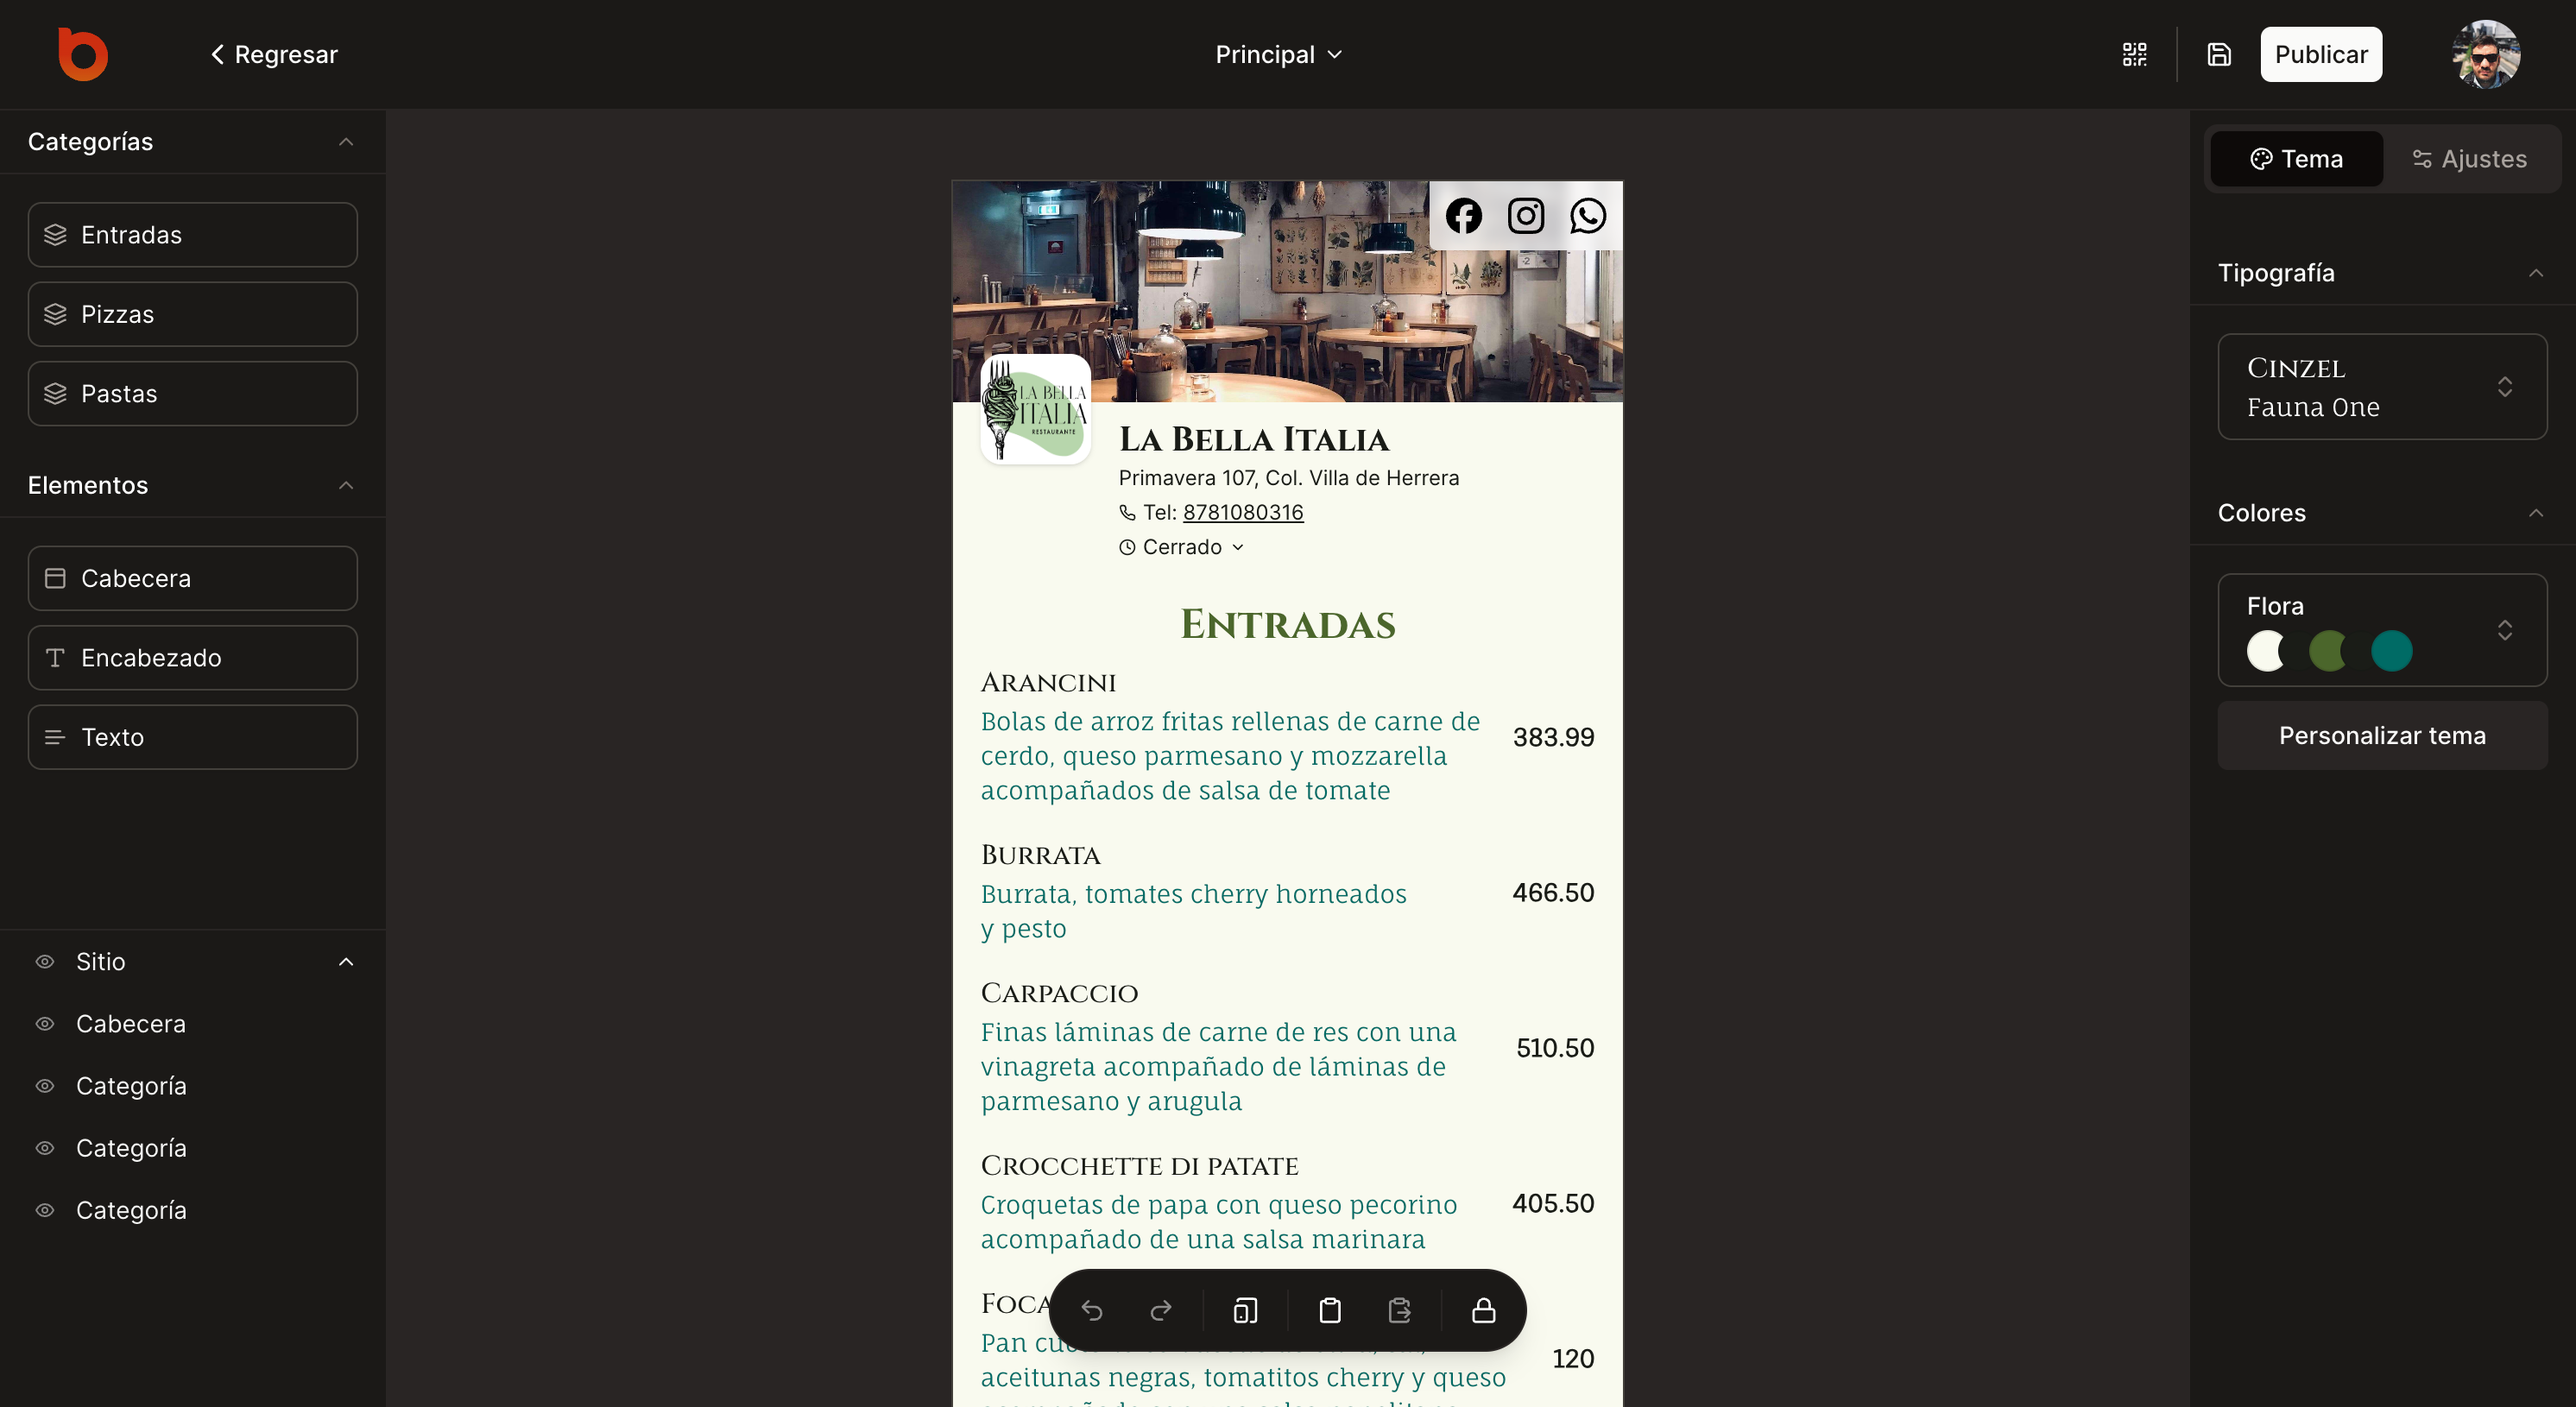
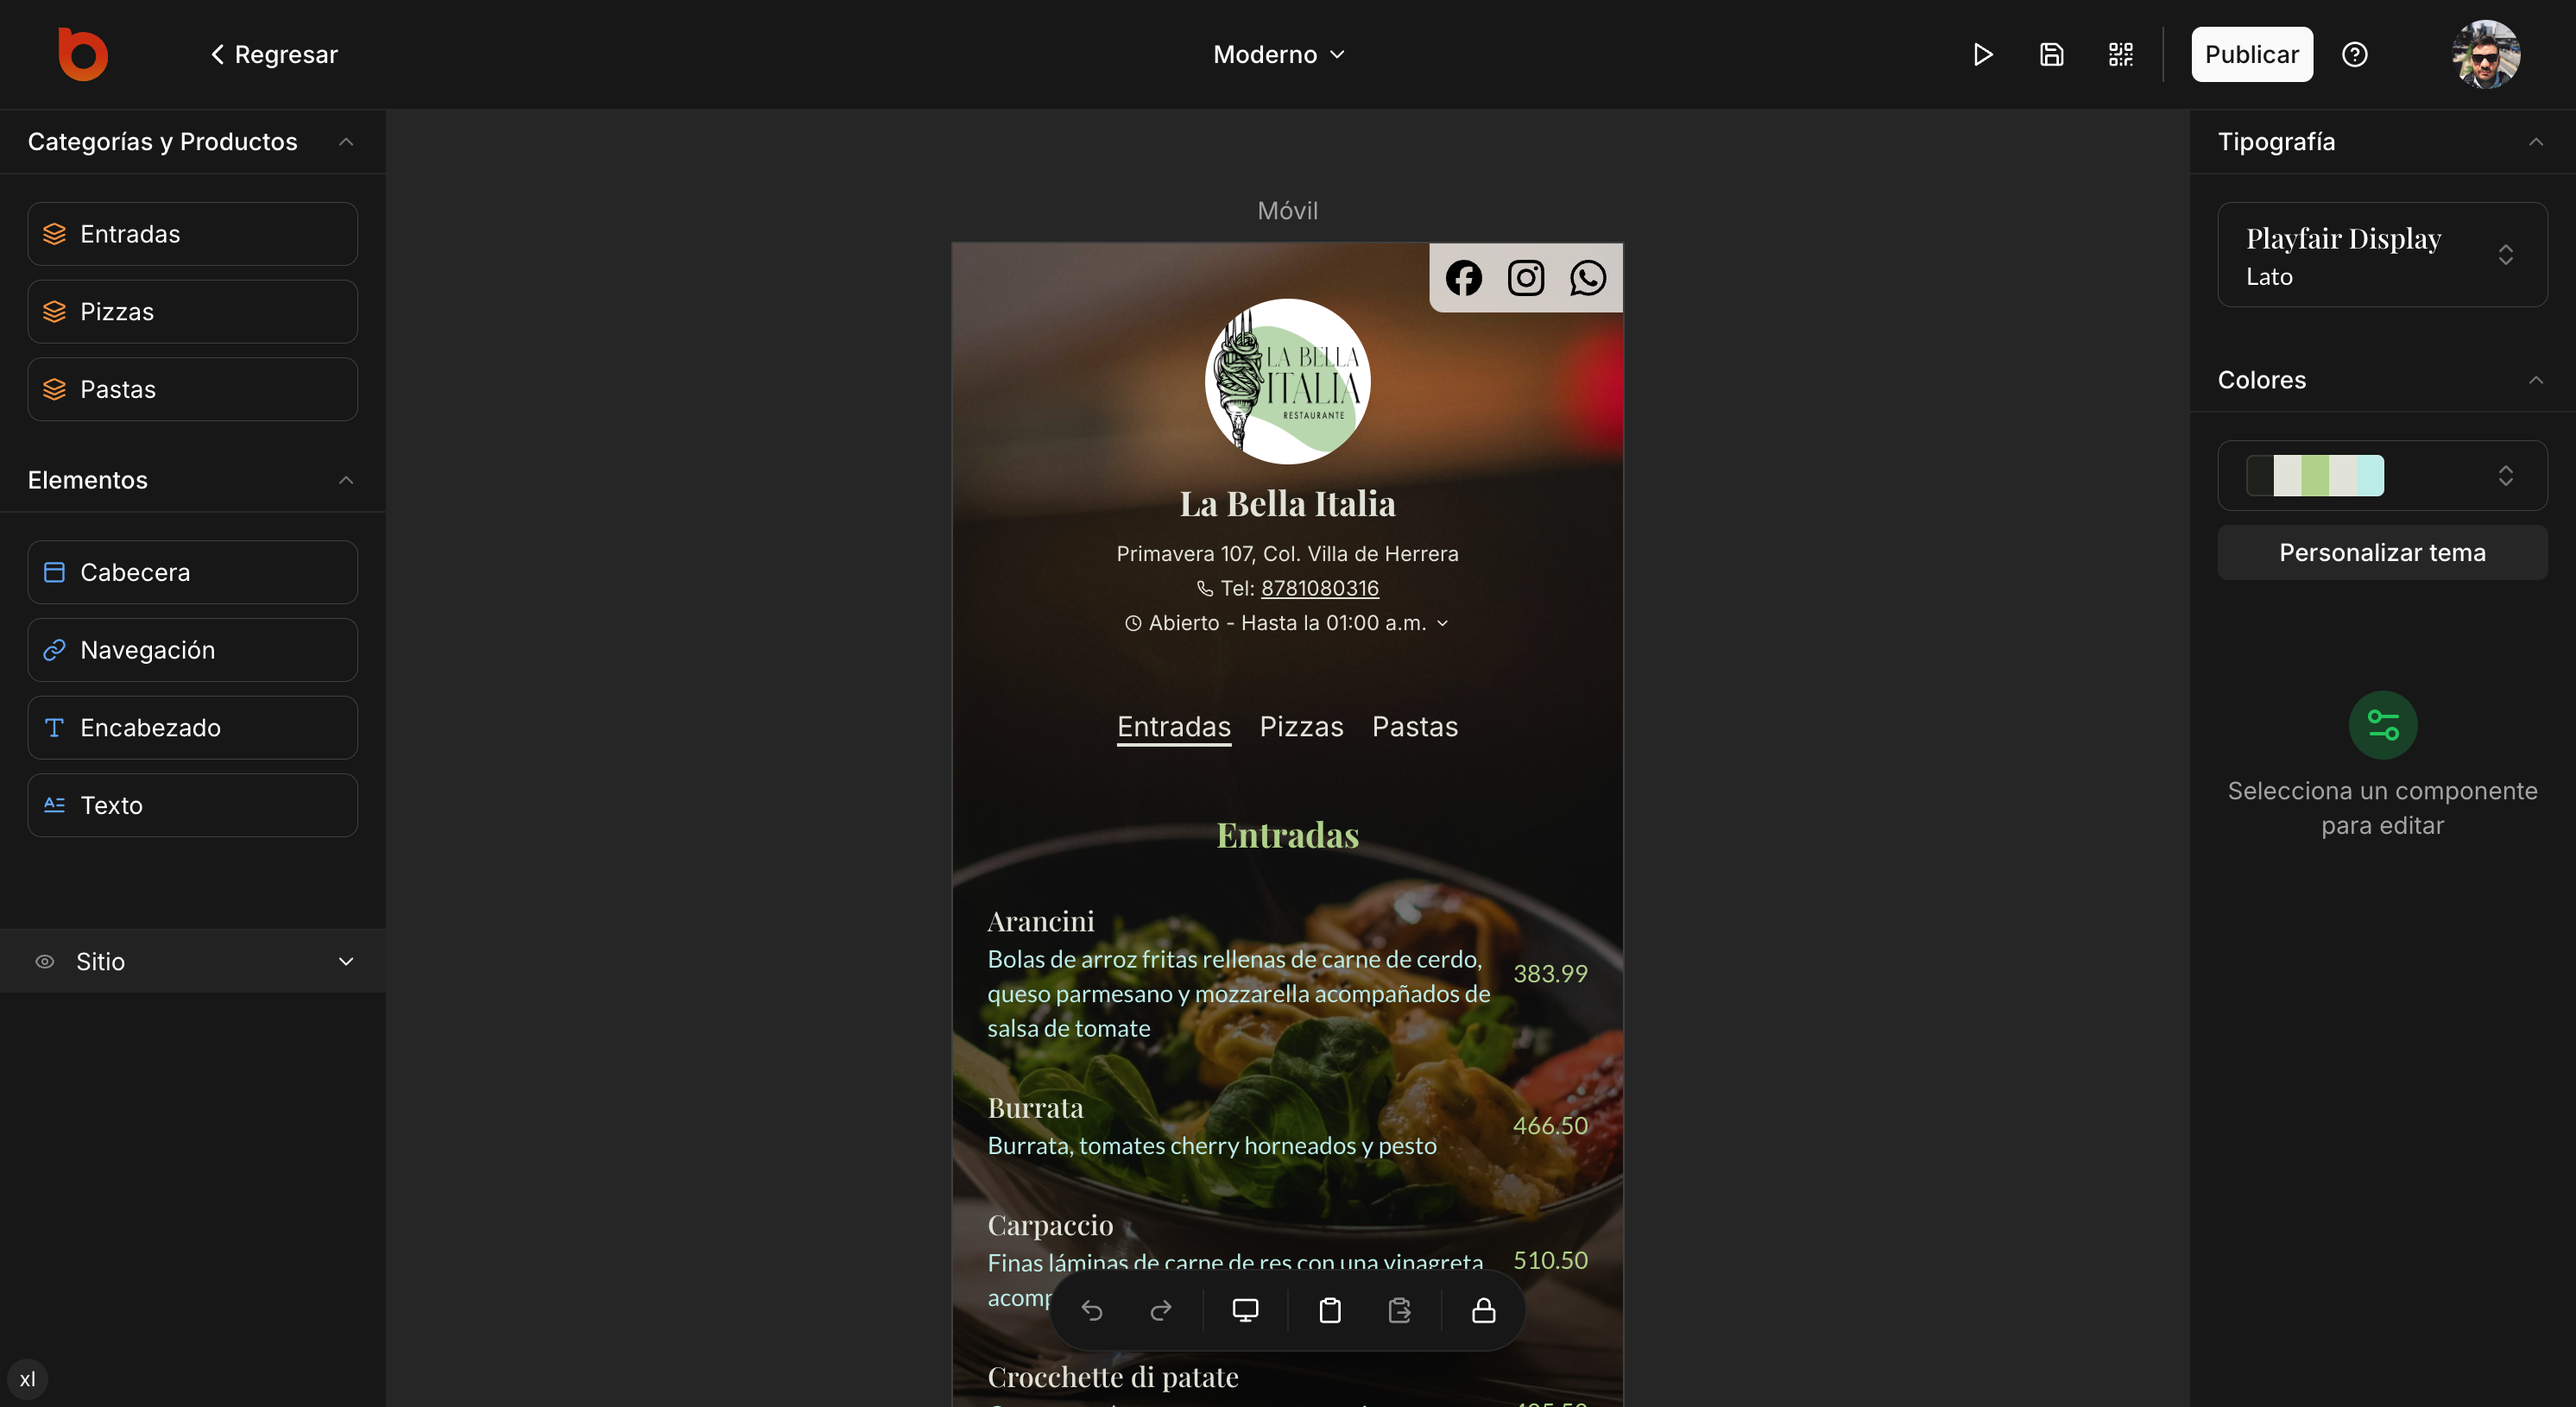
style(wip): update landing page

diff --git a/src/components/marketing/benefits.tsx b/src/components/marketing/benefits.tsx
@@ -57,19 +57,25 @@ const BENEFITS = [
 
 export default function Benefits() {
   return (
-    <section id="benefits" className="mt-16 bg-gray-50 pb-28 pt-20 sm:py-32">
-      <div className="mx-auto max-w-5xl px-4 text-center sm:px-6 lg:px-8">
-        <small className="mb-2 text-base font-semibold uppercase tracking-widest text-orange-600">
-          Porque Biztro
-        </small>
-        <h2 className="text-balance font-display text-3xl tracking-tight text-gray-950 dark:text-white sm:text-4xl md:text-5xl">
-          Obtén los beneficions de tú menu en digital
-        </h2>
-      </div>
-      <div className="mx-auto mt-16 grid max-w-5xl grid-cols-1 gap-8 px-4 sm:grid-cols-3 sm:gap-12 sm:px-6 lg:max-w-7xl lg:gap-16 lg:px-8">
-        {BENEFITS.map((benefit, index) => (
-          <BenefitItem key={index} {...benefit} />
-        ))}
+    <section
+      id="benefits"
+      className="relative mt-16 bg-gray-50 pb-28 pt-20 dark:bg-transparent sm:py-32"
+    >
+      <div className="absolute inset-0 h-full w-full items-center px-5 py-24 [background:radial-gradient(125%_125%_at_50%_10%,#000_40%,#63e_100%)]"></div>
+      <div className="relative z-10">
+        <div className="mx-auto max-w-5xl px-4 text-center sm:px-6 lg:px-8">
+          <small className="mb-2 text-base font-semibold uppercase tracking-widest text-orange-600">
+            Porque Biztro
+          </small>
+          <h2 className="text-balance font-display text-3xl tracking-tight text-gray-950 dark:text-white sm:text-4xl md:text-5xl">
+            Obtén los beneficions de tú menu en digital
+          </h2>
+        </div>
+        <div className="mx-auto mt-16 grid max-w-5xl grid-cols-1 gap-8 px-4 sm:grid-cols-3 sm:gap-12 sm:px-6 lg:max-w-7xl lg:gap-16 lg:px-8">
+          {BENEFITS.map((benefit, index) => (
+            <BenefitItem key={index} {...benefit} />
+          ))}
+        </div>
       </div>
     </section>
   )
@@ -90,10 +96,10 @@ const BenefitItem = ({
     <div className="flex flex-col items-center gap-2 text-center sm:items-start sm:text-start">
       <div className="mb-2">
         {Icon && (
-          <Icon className="size-10 rounded-xl bg-green-500 p-2 text-green-50" />
+          <Icon className="size-10 rounded-xl bg-purple-500 p-2 text-purple-50" />
         )}
       </div>
-      <h4 className="space-x-1 text-lg font-semibold text-green-900">
+      <h4 className="space-x-1 text-lg font-semibold text-purple-400">
         {title}
         {soon && (
           <div>
@@ -103,7 +109,7 @@ const BenefitItem = ({
           </div>
         )}
       </h4>
-      <span className="text-balance text-gray-600">{description}</span>
+      <span className="text-balance text-gray-50">{description}</span>
     </div>
   )
 }

diff --git a/src/components/marketing/editor-preview.tsx b/src/components/marketing/editor-preview.tsx
@@ -2,11 +2,14 @@
 
 import { useRef } from "react"
 import { motion, useInView } from "framer-motion"
+import Image from "next/image"
 
 import { BorderBeam } from "@/components/flare-ui/border-beam"
 import GradientBlur from "@/components/flare-ui/gradient-blur"
 import { useMobile } from "@/lib/use-mobile"
 import { cn } from "@/lib/utils"
+import editorDark from "../../../public/editor-dark.png"
+import editorLight from "../../../public/editor-light.png"
 
 export default function EditorPreview() {
   const fadeInRef = useRef(null)
@@ -31,7 +34,7 @@ export default function EditorPreview() {
     <section
       id="editor-preview"
       ref={fadeInRef}
-      className="mx-auto max-w-5xl px-4 dark:bg-black sm:px-6 lg:px-8"
+      className="mx-auto max-w-6xl px-4 dark:bg-black sm:px-6 lg:px-8"
     >
       <motion.div
         animate={fadeInInView ? "animate" : "initial"}
@@ -44,7 +47,7 @@ export default function EditorPreview() {
           type: "spring"
         }}
         className={cn(
-          "relative mt-0 h-full w-full rounded-md after:absolute after:inset-0 after:z-10 sm:mt-24 sm:rounded-xl",
+          "relative mt-0 h-full w-full rounded-md after:absolute after:inset-0 after:z-10 sm:mt-10 sm:rounded-xl",
           // isMobile
           isMobile
             ? "after:[background:linear-gradient(to_top,#fff_10%,transparent)] dark:after:[background:linear-gradient(to_top,#000000_10%,transparent)]"
@@ -59,26 +62,26 @@ export default function EditorPreview() {
             "[background-image:linear-gradient(to_bottom,#ffaa40,transparent_30%)]",
 
             // dark styles
-            "dark:[background-image:linear-gradient(to_bottom,#ffffff,transparent_30%)]"
+            "dark:[background-image:linear-gradient(to_bottom,#c4b5fd,transparent_30%)]"
           )}
         />
 
-        <img
-          src="/editor-light.png"
+        <Image
+          src={editorLight}
           className="relative block h-full w-full rounded-md border dark:hidden sm:rounded-xl"
           alt="Imagen del editor de menús en web"
         />
-        <img
-          src="/editor-dark.png"
+        <Image
+          src={editorDark}
           className="relative hidden h-full w-full rounded-md border border-gray-700/70 dark:block sm:rounded-xl"
           alt="Imagen del editor de menús en web"
         />
 
         {!isMobile && (
           <>
-            <GradientBlur className="inset-x-0 bottom-0 h-1/2" />
+            <GradientBlur className="inset-x-0 bottom-0 h-1/3" />
             <BorderBeam size={150} />
-            <BorderBeam size={150} delay={7} />
+            {/* <BorderBeam size={150} delay={7} /> */}
           </>
         )}
       </motion.div>

diff --git a/src/components/marketing/hero.tsx b/src/components/marketing/hero.tsx
@@ -39,7 +39,7 @@ export default function Hero() {
               {/* Top announcement */}
               <motion.div
                 className={cn(
-                  "group relative cursor-pointer rounded-full border border-black/10 bg-gray-50 text-base transition-all ease-in hover:bg-gray-100 dark:border-white/5 dark:bg-gray-900 dark:hover:bg-gray-800"
+                  "group relative cursor-pointer rounded-full border border-black/10 bg-gray-50 transition-all ease-in hover:bg-gray-100 dark:border-white/5 dark:bg-gray-900 dark:hover:bg-gray-800"
                 )}
                 animate={fadeInInView ? "animate" : "hidden"}
                 variants={fadeUpVariants}
@@ -50,7 +50,7 @@ export default function Hero() {
                   ease: "easeIn"
                 }}
               >
-                <AnimatedShinyText className="inset-0 inline-flex items-center justify-center px-4 py-1 text-xs transition ease-out hover:text-gray-600 hover:duration-300 hover:dark:text-gray-400 sm:text-base">
+                <AnimatedShinyText className="inset-0 inline-flex items-center justify-center px-4 py-1 text-xs transition ease-out hover:text-gray-600 hover:duration-300 hover:dark:text-gray-400 sm:text-sm">
                   {"🚀 Biztro esta en beta"}
                   <ArrowRightIcon className="ml-1 size-3 transition-transform duration-300 ease-in-out group-hover:translate-x-1" />
                 </AnimatedShinyText>

diff --git a/src/components/marketing/features.tsx b/src/components/marketing/features.tsx
@@ -25,7 +25,7 @@ const features = [
       </div>
     ),
     className:
-      "lg:row-start-1 lg:row-end-4 lg:col-start-1 lg:col-end-2 bg-orange-500 text-orange-50"
+      "lg:row-start-1 lg:row-end-4 lg:col-start-1 lg:col-end-2 bg-orange-500 dark:bg-orange-500 dark:text-orange-50 text-orange-50"
   },
   {
     Icon: QrCodeIcon,
@@ -47,7 +47,7 @@ const features = [
       </div>
     ),
     className:
-      "lg:col-start-2 lg:col-end-3 lg:row-start-2 lg:row-end-4 bg-violet-600 text-violet-50"
+      "lg:col-start-2 lg:col-end-3 lg:row-start-2 lg:row-end-4 bg-violet-600 dark:bg-violet-600 dark:text-violet-50 text-violet-50"
   },
   {
     Icon: MousePointerClick,
@@ -83,7 +83,7 @@ export default function Features() {
           interfaz intuitiva y amigable, solo necesitas tu navegador web
         </p>
       </section>
-      <section className="mx-auto my-16 max-w-4xl px-4 sm:my-32 sm:px-6 lg:px-8">
+      <section className="mx-auto my-16 max-w-5xl px-4 sm:my-32 sm:px-6 lg:px-8">
         <BentoGrid className="sm:grid-cols-2 sm:grid-rows-3">
           {features.map(feature => (
             <BentoCard key={feature.name} {...feature} />

diff --git a/src/components/marketing/faq.tsx b/src/components/marketing/faq.tsx
@@ -50,7 +50,7 @@ export default function Faq() {
                 <AccordionTrigger className="text-start sm:text-lg [&>svg]:text-violet-500 sm:[&>svg]:size-5">
                   {faq.question}
                 </AccordionTrigger>
-                <AccordionContent className="text-base text-gray-700">
+                <AccordionContent className="text-base text-gray-700 dark:border-gray-800 dark:text-gray-300">
                   {faq.answer}
                 </AccordionContent>
               </AccordionItem>

diff --git a/src/app/providers.tsx b/src/app/providers.tsx
@@ -46,7 +46,7 @@ function getQueryClient() {
 
 const getForcedTheme = (pathname: string | null) => {
   if (pathname === "/") {
-    return "light"
+    return "dark"
   }
   if (pathname === "/terms") {
     return "light"
